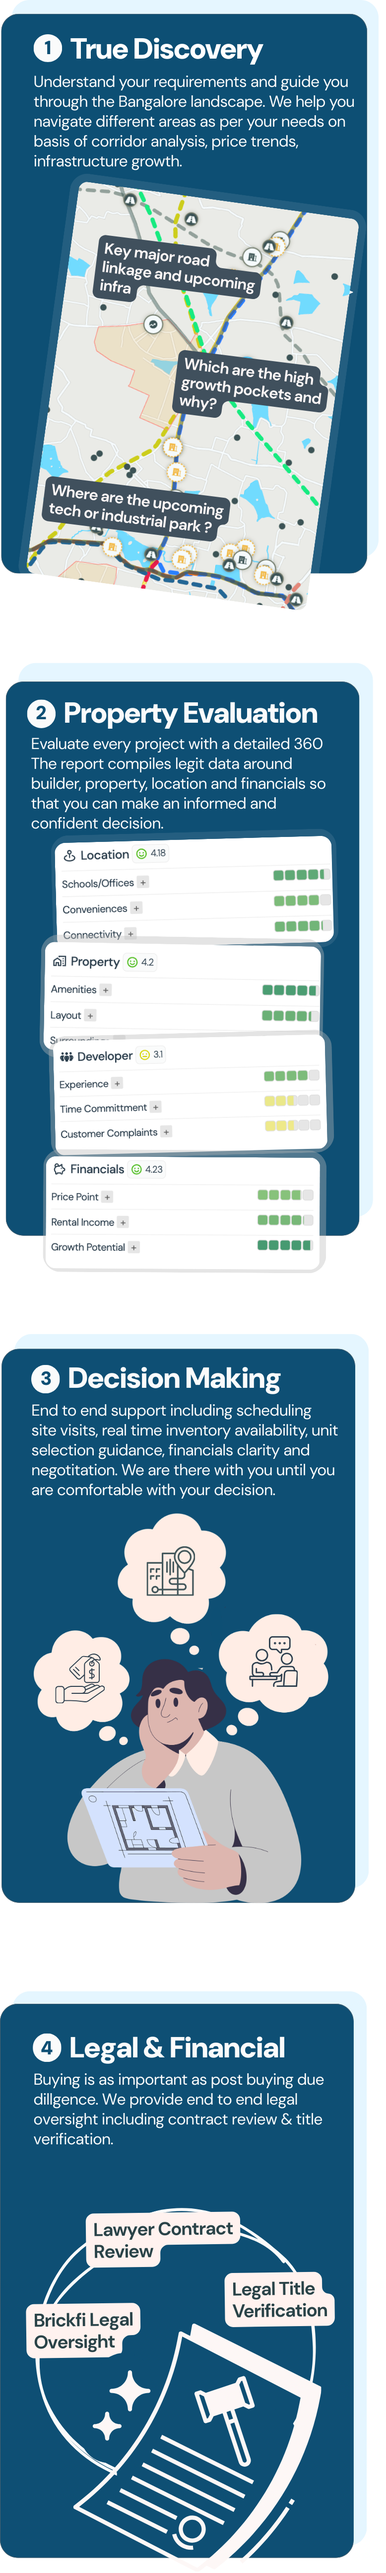
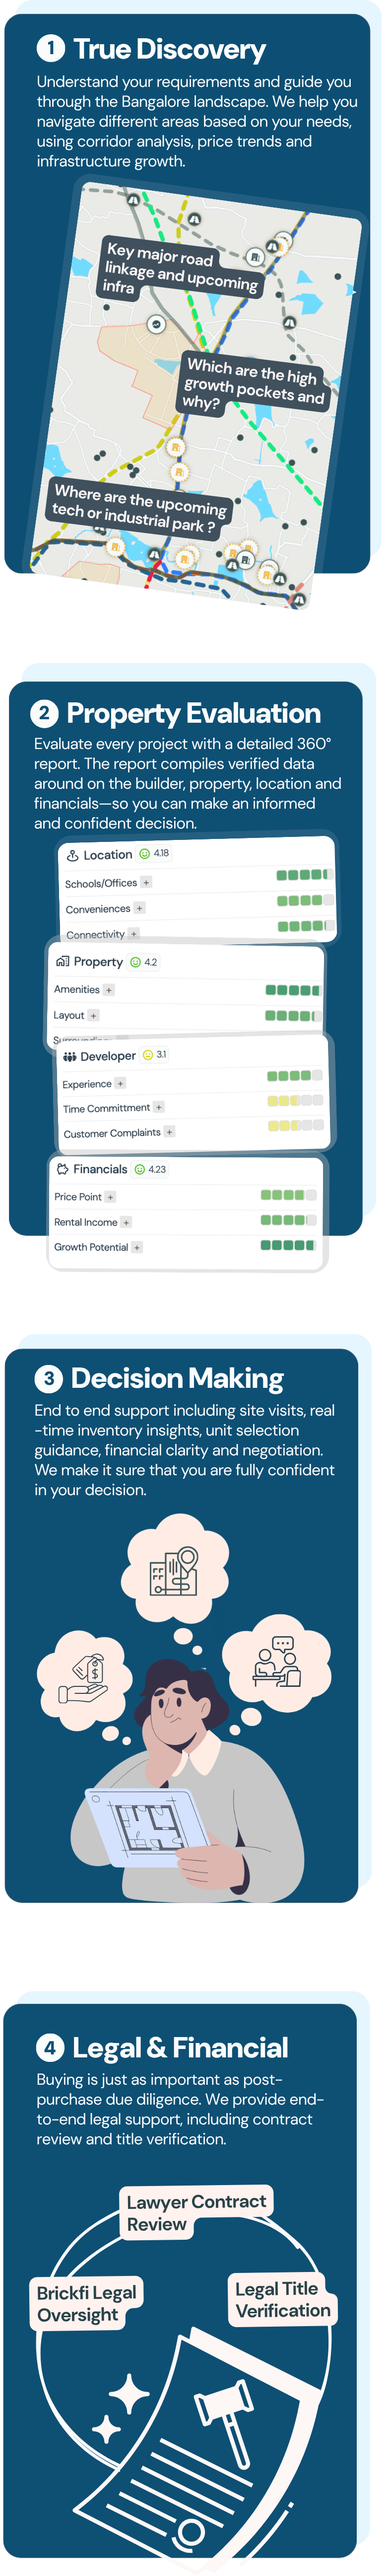
updating final changes

diff --git a/src/custom-pages/landing/brick-assist-landing-v2.tsx b/src/custom-pages/landing/brick-assist-landing-v2.tsx
@@ -32,7 +32,7 @@ export default function BrickAssistLandingV2() {
       <Button
         type="primary"
         onClick={() => {
-          safeWindow.location.href = "/requestreport";
+          safeWindow.location.href = "/callback-request?srcIntent=brkassist-landing";
         }}
         style={{
           alignSelf: "flex-start",
@@ -100,13 +100,11 @@ export default function BrickAssistLandingV2() {
       key: "1",
       label: getFaqHeading("What is Brickfi Assist ?"),
       style: faqPanelStyle,
-      children: getFaqText(`
-          With BrickfiAssist you get expert property buying advise on new and
-          under construction properties including apartments, villas and plots
-          in Bengaluru. We provide data backed and verified list of curated
-          properties personalized for your requirements. Besides, we also
-          provide end to end support when it comes to visits, negotiation, post
-          purchase documentation assistance and more.`),
+      children: getFaqText(<>
+          With Brickfi Assist, you get expert property-buying advice for new and under-construction properties, including apartments, villas, and plots in Bengaluru.<br></br>
+We provide a data-backed, verified list of curated properties tailored to your requirements.<br></br>
+Additionally, we offer end-to-end support—from site visits and negotiations to post-purchase documentation assistance.
+</>),
     },
     {
       key: "2",
@@ -118,12 +116,9 @@ export default function BrickAssistLandingV2() {
             The service is completely free for our buyers.
           </b>
           <br></br>
-          We usually charge commission from the developer. However, that does
-          not mean, that we prefer or have any bias with any particular
-          developer. Most of the developers have a set commisssion for
-          partners/advisors which is separate from the final cost quoted to the
-          buyer. That means, the buyer does not have to accomodate any part of
-          their cost when it comes to commissions.
+         We typically earn a commission from developers. However, this does not mean we favor any particular developer.
+ Most developers allocate a standard commission for advisors which varies. This ensures that buyers do not incur any additional costs.
+
         </>,
       ),
     },
@@ -144,11 +139,9 @@ export default function BrickAssistLandingV2() {
                 fontWeight: 500,
               }}
             >
-              We DON&apos;T sell or market specific projects like other channel
-              partners/brokers.
+              We DON&apos;T sell or promote specific projects like traditional brokers.
             </p>
-            Instead, we offer data backed advise, curation and analysis of
-            projects across Bangalore.
+            Instead, we provide data-backed advice, curation, and analysis across projects in Bangalore.
           </Typography.Text>
           <Typography.Text
             style={{ textAlign: "left", fontSize: FONT_SIZE.HEADING_2 }}
@@ -162,17 +155,10 @@ export default function BrickAssistLandingV2() {
                 fontWeight: 500,
               }}
             >
-              We DON&apos;T provide superficial, biased marketing information.
+              We DON&apos;T provide superficial or biased marketing information.
             </p>{" "}
-            Instead we refer verified sources of information and show both sides
-            of the coin and go deep into understanding a particular project. Our
-            system has been integrated with source like{" "}
-            <span style={{ color: COLORS.textColorDark, marginRight: 8 }}>
-              RERA, Open Street, Google Maps, Open City
-            </span>
-            including how reliable the builder is, the location, upcoming
-            projects near the area, surroundings and more. We make sure you
-            understand the benefits as well as its shortcomings.
+            Our insights are derived from verified sources such as RERA, OpenStreetMap, Google Maps, and OpenCity—combined with deep analysis of builder track record, location dynamics, and future developments.<br></br>
+             We help you understand both the strengths and risks of every property.<br></br>
           </Typography.Text>
           <Typography.Text
             style={{ textAlign: "left", fontSize: FONT_SIZE.HEADING_2 }}
@@ -189,7 +175,7 @@ export default function BrickAssistLandingV2() {
               Our work DOESN&apos;T stop once you make a decision.
             </p>{" "}
             We go the extra mile in terms of negotiation, post purchase
-            formalities and any other assistance you might need once you have
+            formalities, legal due-dilligence and any other assistance you might need once you have
             made your decision.
           </Typography.Text>
         </Flex>
@@ -206,35 +192,22 @@ export default function BrickAssistLandingV2() {
           >
             <b>✔ INTRO CALL</b>
             <br></br>
-            We initially do an intro call to discuss in detail your set of
-            requirements, provide overview of the Bangalore landscape with
-            different in terms of different micro markets
+           We begin with a detailed discussion of your requirements and provide an overview of Bangalore’s landscape and understanding of different micro-markets.
           </Typography.Text>
           <Typography.Text
             style={{ textAlign: "left", fontSize: FONT_SIZE.HEADING_2 }}
           >
             <b>✔ SHORTLISTING</b>
             <br></br>
-            Based on your requirements, we shortlist/curate set of projects and
-            share{" "}
-            <span style={{ color: COLORS.textColorDark }}>
-              detailed Brick360 reports
-            </span>{" "}
-            to help you understand and evaluate each property in detail.
+            Based on your needs, we curate a set of relevant projects and share detailed Brick360° reports for each to help you understand & evaluate each property.
           </Typography.Text>
           <Typography.Text
             style={{ textAlign: "left", fontSize: FONT_SIZE.HEADING_2 }}
           >
             <b>✔ DECISION MAKING</b>
             <br></br>
-            Once you have shortilisted properties, we will assist with you
-            physical visits and provide detailed insights related to{" "}
-            <span style={{ color: COLORS.textColorDark }}>
-              physical inspection, pricing, timeline, unit selection
-            </span>{" "}
-            which can help you make an informed decision. Based on your final
-            selection, we will also carry out strategic negotitation on your
-            behalf, making sure you get the best deal.
+             Once you shortlist properties, we assist with site visits, pricing discussions, and timelines to help you make an informed decision.
+             We support you through final negotiations, unit selection, and payment planning.
           </Typography.Text>
           <Typography.Text
             style={{ textAlign: "left", fontSize: FONT_SIZE.HEADING_2 }}
@@ -452,9 +425,9 @@ export default function BrickAssistLandingV2() {
                   marginBottom: 8,
                 }}
               >
-                Brickfi Assist is a real estate advisory that works for you the
+                Brickfi Assist is a real estate advisory that works for you—the
                 buyer. Get data backed research & guided decision making to
-                power your home search and buying experience.
+                power your home search and buying journey.
               </Typography.Text>
               {getCTA()}
             </Flex>
@@ -522,19 +495,17 @@ export default function BrickAssistLandingV2() {
                   best-fit
                 </span>{" "}
                 properties rarely show up, because the match making and curation
-                is never really happening at a deeper level.🫣
+                rarely happen at a deeper level.🫣
                 <br></br>
                 <br></br>
                 You sign{" "}
                 <span style={{ color: COLORS.LANDING.PINK, fontWeight: 800 }}>
                   stacks of papers
                 </span>{" "}
-                believing verbal assurances. And once the deal is done, the
-                cowboys ride off — leaving you alone to navigate the builder’s
-                maze. 😭
+                based on verbal assurances. And once the deal is done, you're left to navigate the builder’s maze alone. 😭
                 <br></br>
                 <br></br>
-                We started Brickfi to change this. Using{" "}
+                We started Brickfi to change this. By leveraging{" "}
                 <span style={{ color: COLORS.LANDING.PINK, fontWeight: 800 }}>
                   technology
                 </span>{" "}
@@ -543,8 +514,7 @@ export default function BrickAssistLandingV2() {
                   {" "}
                   radically transparent
                 </span>
-                , we aim to bring the much needed clarity and confidence in this
-                industry. 😇
+                , we aim to bring the much needed clarity and confidence to real estate decisions 😇
               </Typography.Text>
               {getCTA()}
             </Flex>
@@ -699,7 +669,7 @@ export default function BrickAssistLandingV2() {
           sectionMaxWidth: isMobile ? "100%" : "85%",
           verticalPadding: isMobile ? 48 : 100,
           mainImgUrl: "/images/landing/brickassistv2/5.png",
-          imageContainerWidth: 65,
+          imageContainerWidth: 60,
           subHeading: (
             <Typography.Text
               style={{
